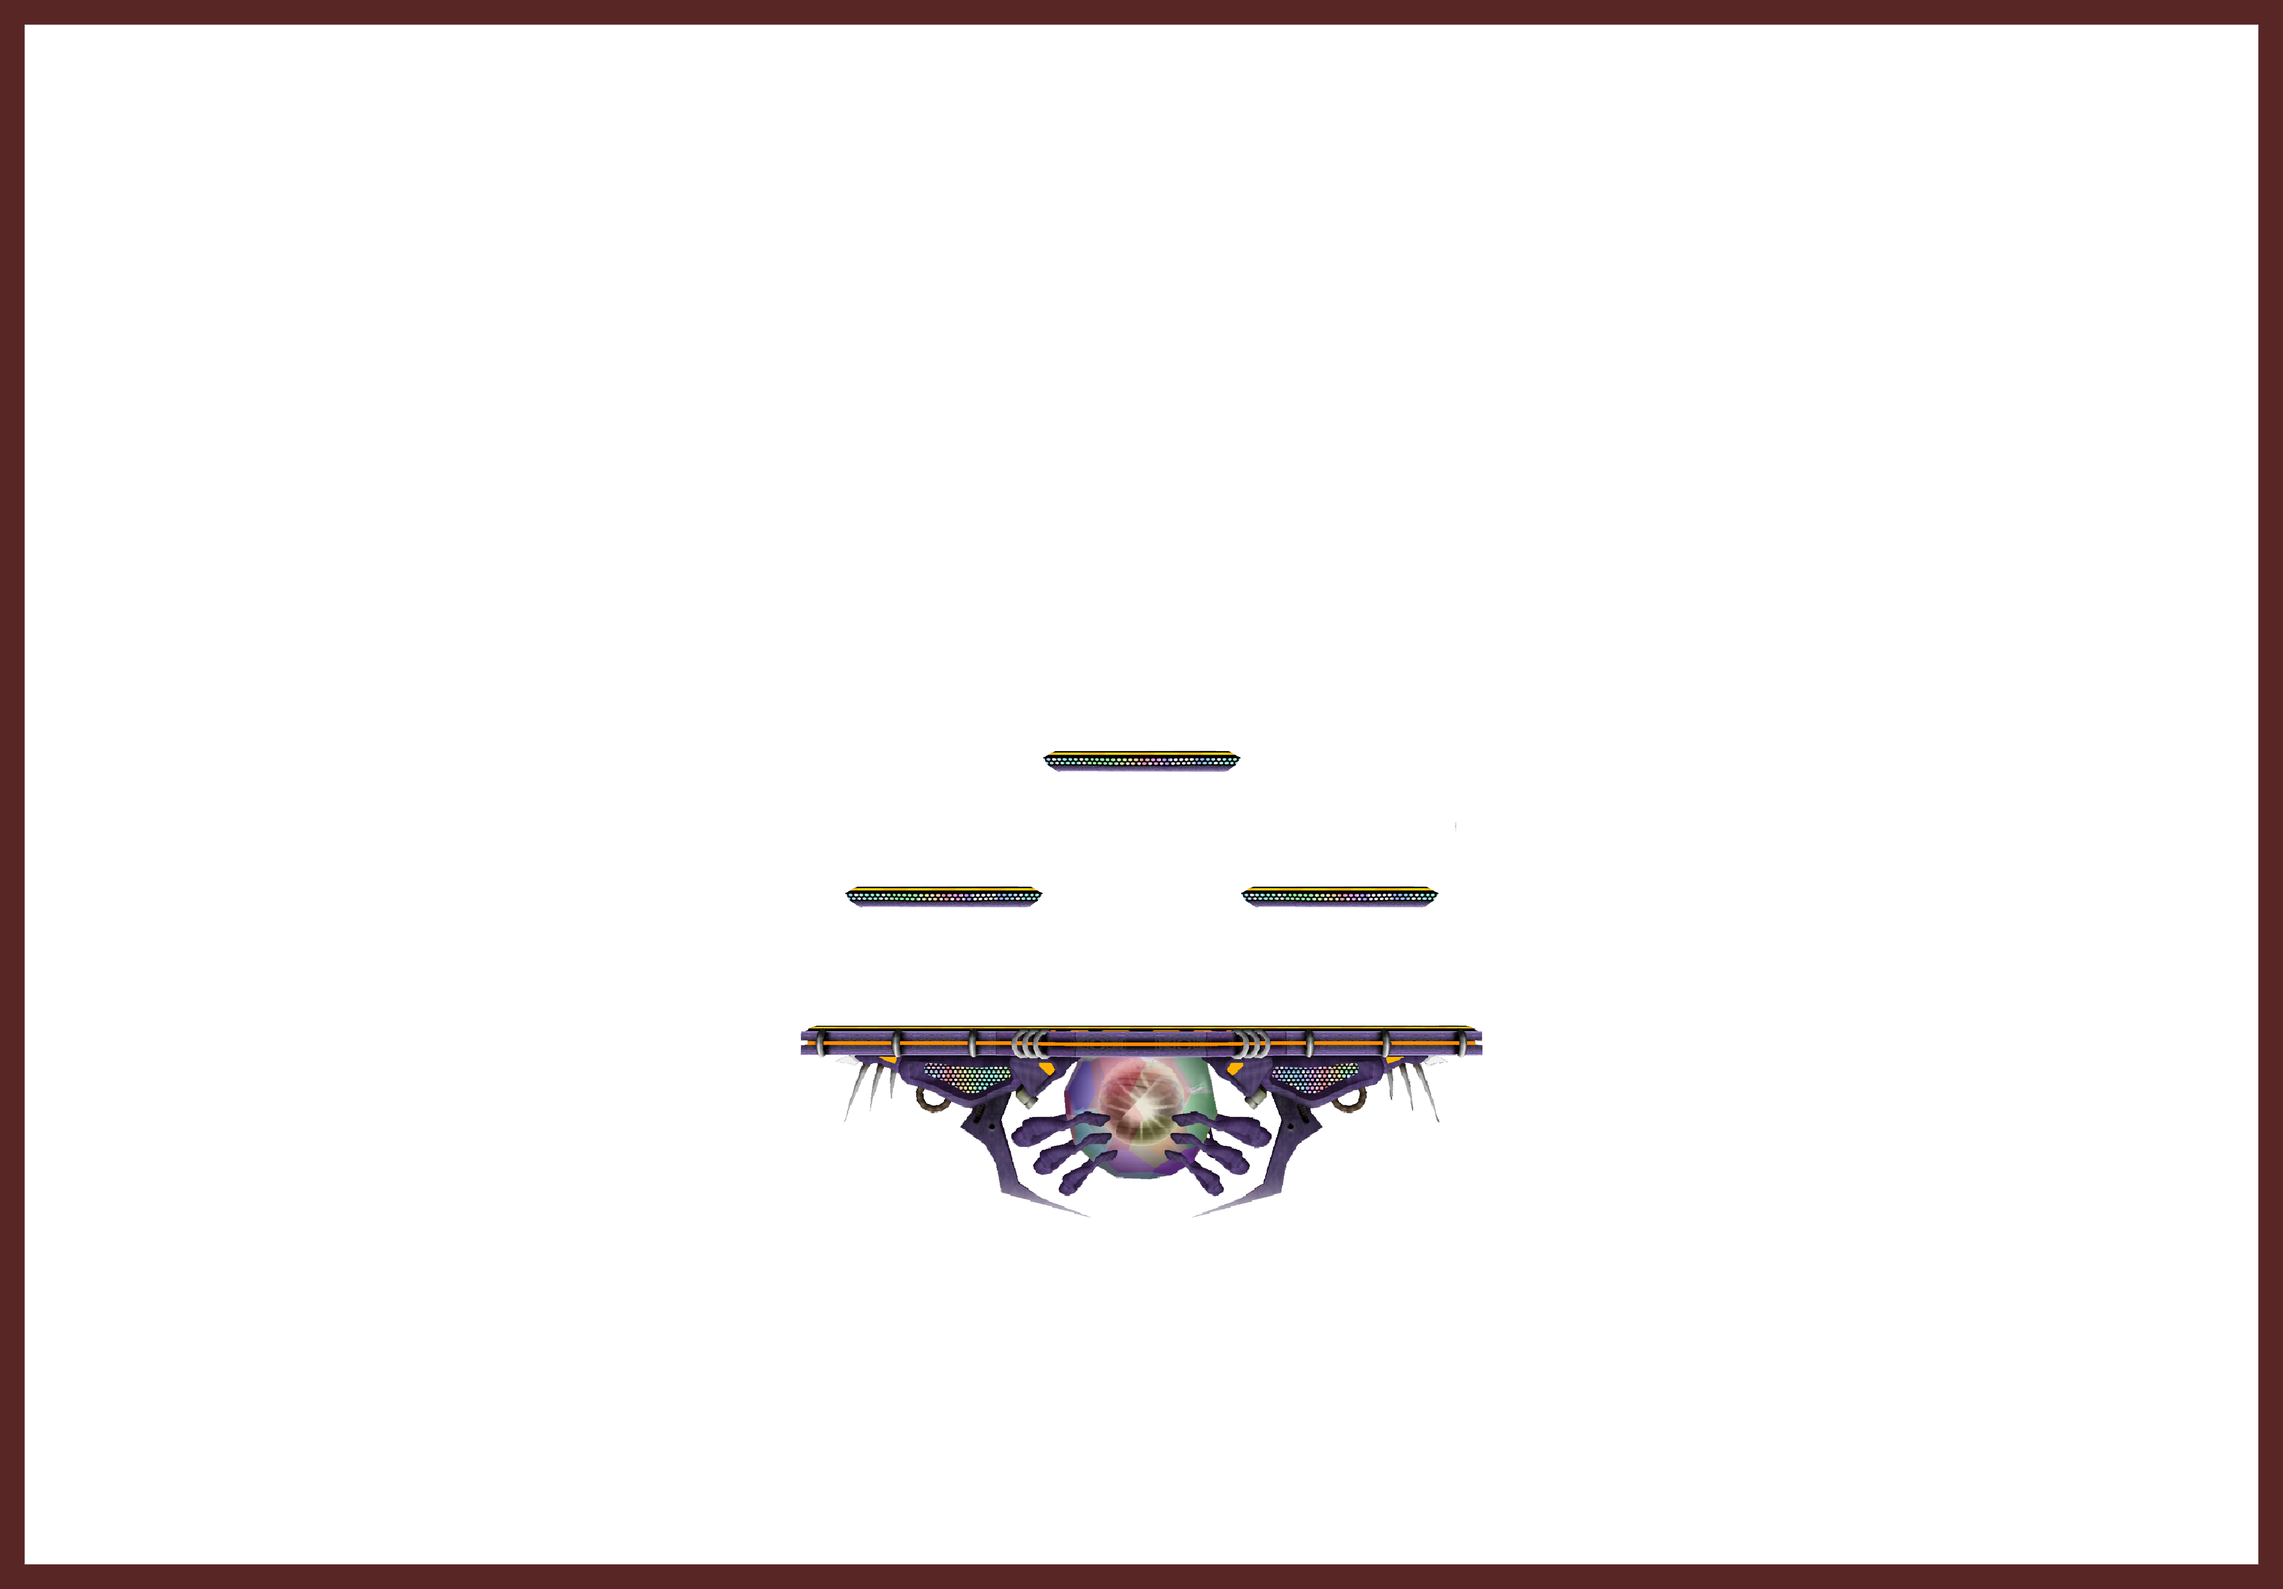
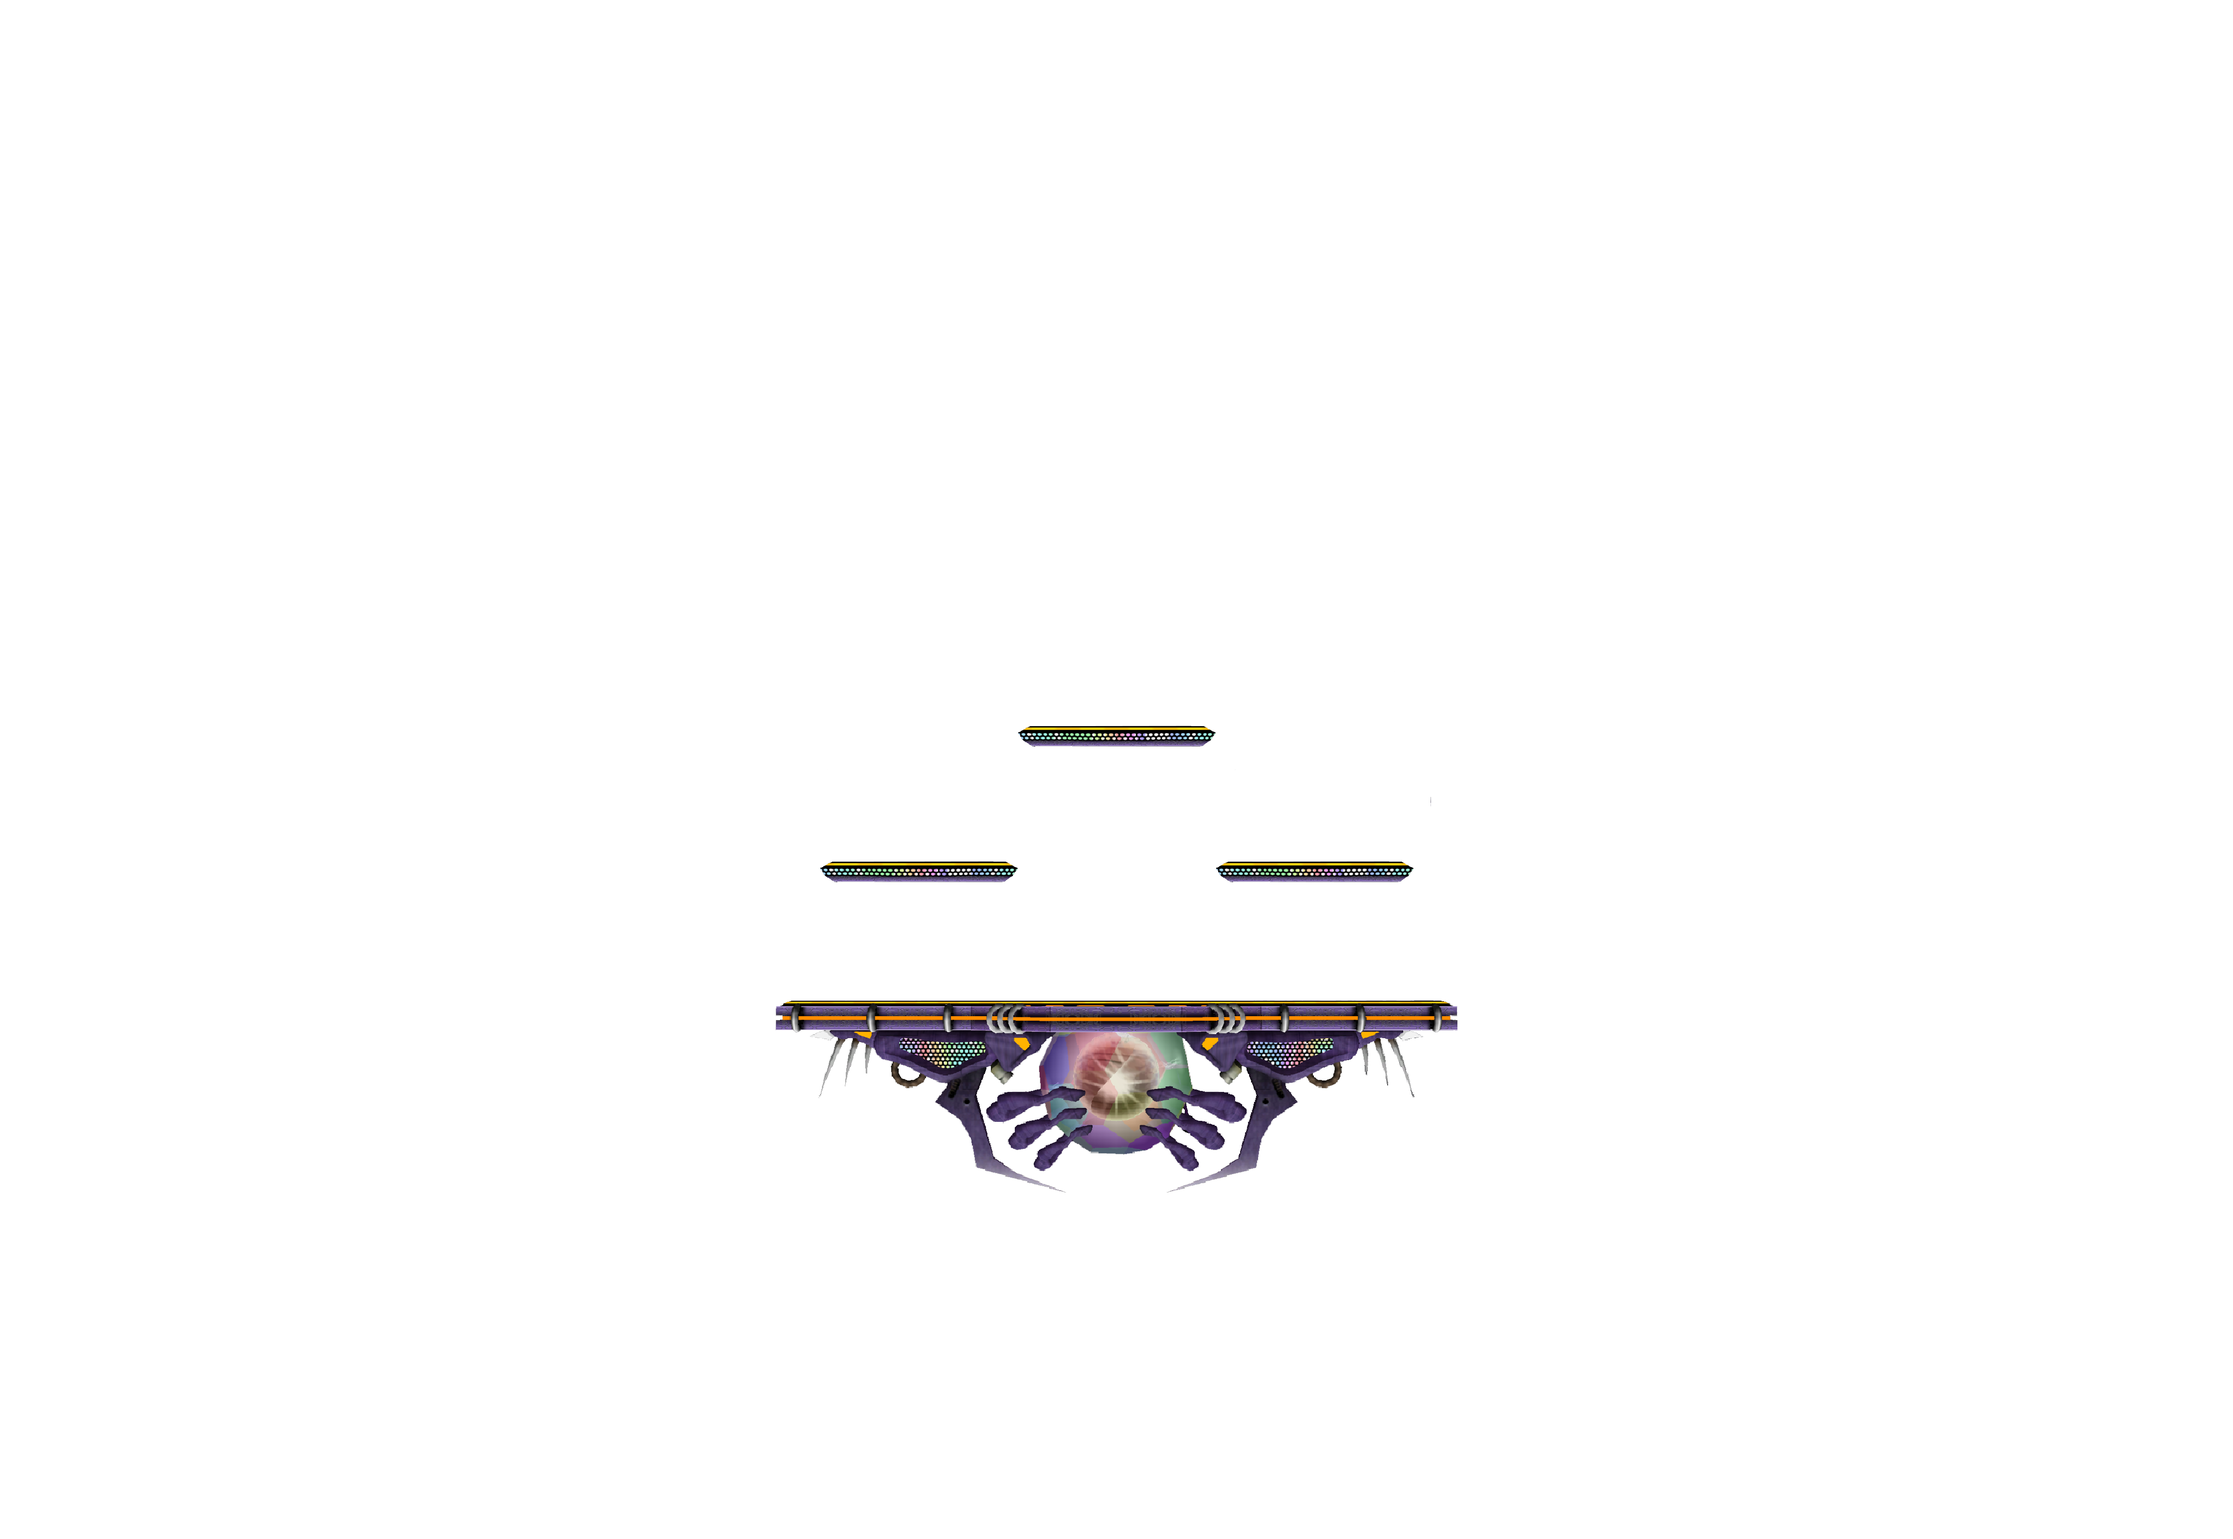
Yoshi's Story background centered

diff --git a/src/Vizualizations/StageBkgndComponent/StageBkgndComponent.js b/src/Vizualizations/StageBkgndComponent/StageBkgndComponent.js
@@ -2,6 +2,7 @@
     Created by Warren Goodson
 */
 import React from 'react';
+import * as d3 from 'd3';
 
 import styles from './StageBkgndComponent.module.css';
 
@@ -24,12 +25,12 @@ import yoshis from '../../Assets/stages/png/yoshis.png';
 //      width
 
 const stageSelect = {
-    0: {yoshis},
-    1: {fountain},
-    2: {stadium},
-    3: {battlefield},
-    4: {FD},
-    5: {dreamland}
+    0: yoshis,
+    1: fountain,
+    2: stadium,
+    3: battlefield,
+    4: FD,
+    5: dreamland
 }
 
 const stageSelectString = {
@@ -41,12 +42,6 @@ const stageSelectString = {
     5: "Dreamland"
 }
 
-// stageDimensions[stageId] = {
-//      xMin: [number]
-//      xMax: [number]
-//      yMin: [number]
-//      yMax: [number]
-//}
 const stageDimensions = {
     0: {
         xMin: -175.7,
@@ -86,10 +81,25 @@ const stageDimensions = {
     }
 }
 
-const getStageDimensionsFromID = (stageId) => {
-    return stageDimensions[stageId];
+const pngDimensions = {
+    0: {
+        x: 3593,
+        y: 2690
+    }
 }
 
+const backgroundTransform = {
+    0: `(0, -125px)`,
+    1: "",
+    2: "",
+    3: "",
+    4: "",
+    5: "",
+}
+
+const backgroundScale = (stageId) => {
+
+}
 
 
 const stageBkgndComponent = (props) => {
@@ -100,10 +110,8 @@ const stageBkgndComponent = (props) => {
     console.log("Stage: ", props.stageId, "\nheight%: ", backgroundHeightPct);
 
     return (
-        <div className={styles.StageComponent}>
-            <img style={{
-                "maxHeight": "100%",
-            }}
+        <div className={styles.StageBkgndComponent}>
+            <img
                  src={yoshis} alt={`${stageSelectString[props.stageId]}`}/>
             {props.children}
         </div>

diff --git a/src/Vizualizations/StageBkgndComponent/StageBkgndComponent.module.css b/src/Vizualizations/StageBkgndComponent/StageBkgndComponent.module.css
@@ -1,7 +1,11 @@
-.StageComponent {
+.StageBkgndComponent {
+    height: 100%;
     position: absolute;
+    top: 50%;
+    left: 50%;
+    transform: translate(-50%, -50%);
 }
 
-.StageComponent img {
-    max-width: 100%;
+.StageBkgndComponent img {
+    height: 100%;
 }
